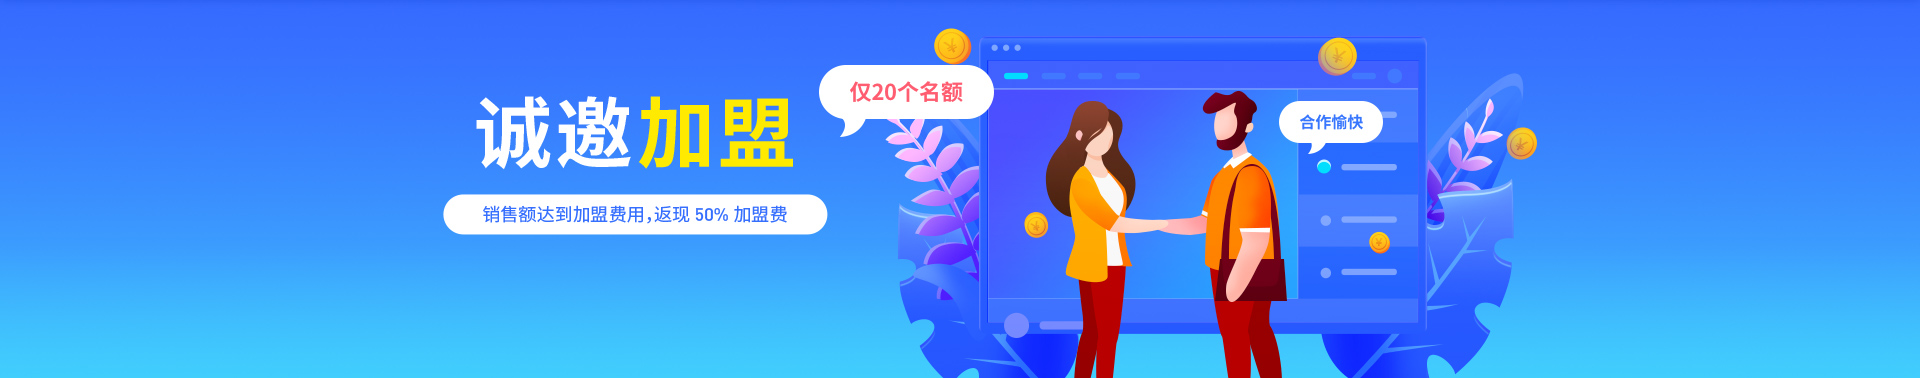
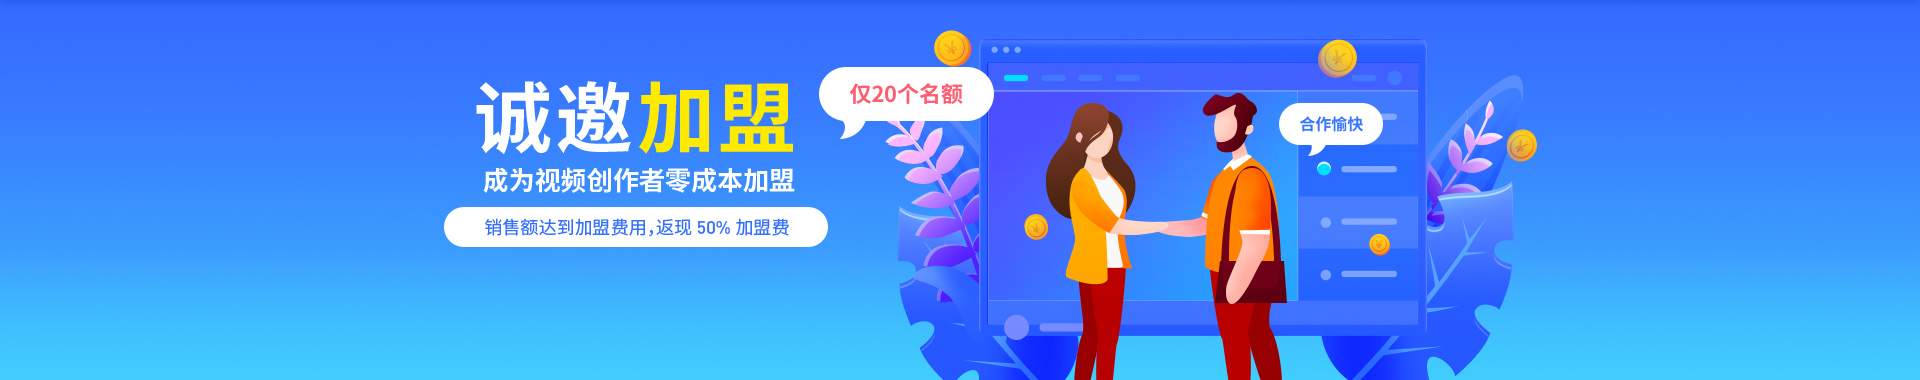
巧匠加盟

diff --git a/qj-jqfl20190522/css/jqfl.css b/qj-jqfl20190522/css/jqfl.css
@@ -1,1 +1,1 @@
-@charset "utf-8";.cl{*zoom:1}.cl:after{display:block;clear:both;height:0;content:"\200B"}.w300{width:300px}.w900{width:900px}.bg-yellow{background:#ffa800 !important}.bg-yellow:hover{background:#ffab0a !important}.yellow{color:#ffa800 !important}a.yellow:hover{color:#ffab0a !important}.bg-green{background:#2ed25d !important}.bg-green:hover{background:#65e386 !important}.pr{position:relative}.icojq{display:inline-block;*display:inline;*zoom:1;vertical-align:middle;background:url(../images/icon-jqfl.png) no-repeat}.jqfl-main{height:380px;background:url(../images/jqfl.jpg) no-repeat center 0}.jqfl-main .slogan{position:absolute;top:68px;left:-70px;width:676px}.jqfl-main .btn-box{padding-top:25px}.jqfl-main .btn-tx{display:block;width:140px;line-height:36px;margin:12px auto 0;font-size:14px;color:#fff;text-align:center;-webkit-border-radius:34px;-ms-border-radius:34px;-moz-border-radius:34px;border-radius:34px}.jqfl-main-box{width:270px;height:263px;margin:43px 56px 0 0;background:#fff}.jqfl-main-box .top-box{position:relative;width:196px;padding-top:56px;margin:0 auto;font-size:0}.jqfl-main-box .top-box .line{position:absolute;top:68px;left:103px;width:1px;height:18px;background:#eee}.jqfl-main-box .top-box dl{display:inline-block;*display:inline;*zoom:1;vertical-align:top;width:98px;text-align:center}.jqfl-main-box .top-box dt{line-height:42px;font-size:12px;color:#999}.jqfl-main-box .top-box dt strong{font-size:40px}.jqfl-main-box .top-box dd{line-height:24px;font-size:12px;color:#999}.jqfl-main2{padding-top:52px;height:328px;text-align:center;background:url(../images/yqcz.jpg) no-repeat center 0}.jqfl-main2 .name{line-height:45px;font-size:28px;color:#333}.jqfl-main2 .info{line-height:30px;font-size:16px;color:#333}.jqfl-main2 .info strong{display:inline-block;*display:inline;*zoom:1;vertical-align:middle;font-size:26px;margin:-3px 12px 0}.jqfl-main2 .info span{margin:0 5px}.jqfl-main2 .price{padding:28px 0 3px;font-size:0;text-align:center;*zoom:1}.jqfl-main2 .price:after{display:block;clear:both;height:0;content:"\200B"}.jqfl-main2 .price:after{display:block;clear:both;height:0;content:"\200B"}.jqfl-main2 .price li{display:inline-block;*display:inline;*zoom:1;width:158px;padding:18px 23px;margin:0 7px;border:1px solid #dfdfdf;cursor:pointer}.jqfl-main2 .price li.cur{padding:16px 21px;border:3px solid #ffab0a}.jqfl-main2 .price li .fl{line-height:22px;font-size:16px;color:#686868}.jqfl-main2 .price li .fl img{display:block;width:60px;height:56px;margin:0 0 5px}.jqfl-main2 .price li .fr{padding:8px 0 0;line-height:20px;font-size:14px;color:#666}.jqfl-main2 .price li .fr div{line-height:28px}.jqfl-main2 .price li .fr div strong{font-size:26px}.jqfl-main2 .btn{display:block;margin:20px auto 0;line-height:40px;text-align:center;width:134px;font-size:16px;color:#fff;background:#ffa800;-webkit-border-radius:4px;-ms-border-radius:4px;-moz-border-radius:4px;border-radius:4px}.jqfl-main2 .btn:hover{background:#ffba00}.jqfl-nav{position:relative;top:-50px;-webkit-box-shadow:0 3px 16px #ebebeb;-ms-box-shadow:0 3px 16px #ebebeb;-moz-box-shadow:0 3px 16px #ebebeb;box-shadow:0 3px 16px #ebebeb;background:#fff}.jqfl-nav li{float:left;margin-left:75px;padding-top:10px;line-height:60px}.jqfl-nav li a{display:block}.jqfl-nav li a:hover{color:#ffa800}.jqfl-nav li.cur a{color:#ffa800}.jqfl-invitation{position:relative;top:-50px;border-top:1px solid #efefef;padding-bottom:30px}.jqfl-invitation:before{content:'';position:absolute;top:0;left:0;width:100%;height:30px;background:#fff}.jqfl-invitation .list{padding-bottom:80px;font-size:0;-webkit-box-shadow:0 3px 20px rgba(235, 235, 235, 0.4);-ms-box-shadow:0 3px 20px rgba(235, 235, 235, 0.4);-moz-box-shadow:0 3px 20px rgba(235, 235, 235, 0.4);box-shadow:0 3px 20px rgba(235, 235, 235, 0.4)}.jqfl-invitation .list ul{padding:55px 0 70px}.jqfl-invitation .list li{display:inline-block;*display:inline;*zoom:1;vertical-align:top;font-size:16px;color:#8a8a8a;line-height:25px;text-align:center}.jqfl-invitation .list li .icojq{display:block;margin:0 auto}.jqfl-invitation .list li p{padding-top:28px}.jqfl-invitation .list li.item1{width:262px}.jqfl-invitation .list li.item1 .icojq{width:55px;height:56px;background-position:-10px -82px}.jqfl-invitation .list li.item2{width:350px}.jqfl-invitation .list li.item2 .icojq{width:54px;height:52px;background-position:-10px -10px}.jqfl-invitation .list li.item3{width:298px}.jqfl-invitation .list li.item3 .icojq{width:66px;height:56px;background-position:-10px -158px}.jqfl-invitation .list li.item4{width:310px}.jqfl-invitation .list li.item4 .icojq{width:59px;height:59px;background-position:-10px -234px}.jqfl-invitation .ct-copy-box{overflow:hidden;font-size:0;text-align:center}.jqfl-invitation .ct-copy-box>div{display:inline-block;*display:inline;*zoom:1;vertical-align:top}.jqfl-invitation .ct-copy-box .txt{display:inline-block;*display:inline;*zoom:1;vertical-align:top;width:495px;padding:0 0 0 25px;margin-right:-1px;line-height:42px;border:1px solid #e2e2e2;font-size:14px;color:#999;-webkit-border-radius:4px 0 0 4px;-ms-border-radius:4px 0 0 4px;-moz-border-radius:4px 0 0 4px;border-radius:4px 0 0 4px;text-align:left}.jqfl-invitation .ct-copy-box .btn{display:inline-block;*display:inline;*zoom:1;vertical-align:top;padding:0 34px;line-height:44px;background:#ffa800;font-size:14px;font-weight:700;-webkit-border-radius:0 4px 4px 0;-ms-border-radius:0 4px 4px 0;-moz-border-radius:0 4px 4px 0;border-radius:0 4px 4px 0;color:#fff}.jqfl-invitation .ct-copy-box .btn:hover{background:#ffab0a}.jqfl-invitation .ct-copy-box .ct-price{position:relative;margin-right:30px}.jqfl-invitation .ct-copy-box .ct-price:before{content:'';position:absolute;top:18px;left:86px;width:1px;height:10px;background:#dcdcdc}.jqfl-invitation .ct-copy-box .ct-price .txt{width:165px;padding-left:15px;color:#535353}.jqfl-invitation .ct-copy-box .ct-price .txt input{display:inline-block;*display:inline;*zoom:1;vertical-align:middle;margin:-1px 0 0 26px;width:22px;height:30px;line-height:30px;text-align:center;font-size:14px;color:#535353;border:none;border-bottom:1px solid #fff;-moz-appearance:textfield}.jqfl-invitation .ct-copy-box .ct-price .txt input::-webkit-outer-spin-button,.jqfl-invitation .ct-copy-box .ct-price .txt input::-webkit-inner-spin-button{-webkit-appearance:none;appearance:none}.jqfl-invitation .ct-copy-box .ct-price .txt input:focus{border-bottom:1px solid #0097f8}.jqfl-czhy{position:relative;top:-50px;border-top:1px solid #efefef;margin-bottom:-20px}.jqfl-czhy:before{content:'';position:absolute;top:0;left:0;width:100%;height:30px;background:#fff}.jqfl-czhy .list{padding-top:40px;font-size:0;-webkit-box-shadow:0 3px 20px rgba(235, 235, 235, 0.4);-ms-box-shadow:0 3px 20px rgba(235, 235, 235, 0.4);-moz-box-shadow:0 3px 20px rgba(235, 235, 235, 0.4);box-shadow:0 3px 20px rgba(235, 235, 235, 0.4)}.jqfl-czhy .list li{border-bottom:1px solid #f8f8f8;padding:26px 0;color:#898989;text-align:center}.jqfl-czhy .list li .name{text-overflow:ellipsis;display:-webkit-box;-webkit-line-clamp:1;-webkit-box-orient:vertical;display:inline-block;*display:inline;*zoom:1;vertical-align:top;width:225px;font-size:14px;overflow:hidden;height:42px;line-height:42px}.jqfl-czhy .list li .name img{display:inline-block;*display:inline;*zoom:1;vertical-align:middle;width:42px;height:42px;margin:0 16px 0 0;-webkit-border-radius:50%;-ms-border-radius:50%;-moz-border-radius:50%;border-radius:50%}.jqfl-czhy .list li .name a{color:#666}.jqfl-czhy .list li .name a:hover{color:#ffa800}.jqfl-czhy .list li .time{display:inline-block;*display:inline;*zoom:1;vertical-align:top;width:436px;font-size:14px;overflow:hidden;height:42px;line-height:42px}.jqfl-czhy .list li .sum{display:inline-block;*display:inline;*zoom:1;vertical-align:top;width:230px;font-size:14px;overflow:hidden;height:42px;line-height:42px}.jqfl-czhy .list li .remainder{display:inline-block;*display:inline;*zoom:1;vertical-align:top;margin-left:97px;width:232px;font-size:14px;overflow:hidden;height:42px;line-height:42px}.jqfl-czhy .list li.dt{padding:10px 0;background:#fafafa;border:0}.jqfl-wallet{margin:0 0 70px;border:1px solid #f4f4f4}.jqfl-wallet .tit{padding:0 24px;line-height:60px;color:#707070;font-size:16px;border-bottom:1px solid #f4f4f4}.jqfl-wallet .ct{padding-bottom:47px}.jqfl-wallet .ct dl{padding:32px 0 0;text-align:center}.jqfl-wallet .ct dt{line-height:80px;font-size:12px;color:#999;margin-bottom:-30px}.jqfl-wallet .ct dt strong{font-size:60px}.jqfl-wallet .ct dd{line-height:22px;font-size:14px;color:#8d8d8d}.jqfl-wallet .btn-box{padding-top:13px}.jqfl-wallet .btn-tx{display:block;width:140px;line-height:36px;margin:0 auto;font-size:14px;color:#fff;text-align:center;-webkit-border-radius:34px;-ms-border-radius:34px;-moz-border-radius:34px;border-radius:34px}.jqfl-wallet .tip{padding:34px 0 0;font-size:13px;line-height:21px;color:#ccc;text-align:center}.jqfl-xjtx{padding-bottom:10px}.jqfl-xjtx .list{border:1px solid #f0f0f0}.jqfl-xjtx .list li{border-top:1px solid #f8f8f8;padding:15px 0;color:#898989;font-size:0;text-align:center}.jqfl-xjtx .list li .item1{display:inline-block;*display:inline;*zoom:1;vertical-align:top;width:228px;font-size:14px;overflow:hidden;height:60px;line-height:60px}.jqfl-xjtx .list li .item2{display:inline-block;*display:inline;*zoom:1;vertical-align:top;width:165px;font-size:14px;overflow:hidden;height:60px;line-height:60px}.jqfl-xjtx .list li .item3{display:inline-block;*display:inline;*zoom:1;vertical-align:top;width:141px;font-size:14px;overflow:hidden;height:60px;line-height:60px}.jqfl-xjtx .list li .item4{display:inline-block;*display:inline;*zoom:1;vertical-align:top;width:202px;font-size:14px;overflow:hidden;height:60px;line-height:60px}.jqfl-xjtx .list li .item5{display:inline-block;*display:inline;*zoom:1;vertical-align:top;width:162px;font-size:14px;overflow:hidden;height:60px;line-height:60px}.jqfl-xjtx .list li.dt{position:relative;top:-1px;left:-1px;width:900px;padding:0;margin-bottom:-2px;background:#f4f4f4;border:0;-webkit-border-radius:4px 4px 0 0;-ms-border-radius:4px 4px 0 0;-moz-border-radius:4px 4px 0 0;border-radius:4px 4px 0 0}.user-ico{display:inline-block;*display:inline;*zoom:1;vertical-align:middle;background:url(http://www.qiaojiang.tv/Public/Static/images/user-ico.png) no-repeat}.user-tip{display:none;position:fixed;top:50%;left:50%;z-index:999;width:160px;height:60px;margin:-30px 0 0 -80px;line-height:60px;background:#fff;font-size:16px;text-align:center;color:#666;-webkit-border-radius:3px;-ms-border-radius:3px;-moz-border-radius:3px;border-radius:3px}.user-tip .user-ico{width:32px;height:32px;margin:-3px 10px 0 0}.user-tip .ico-suc{background-position:0 -130px}.user-tip .ico-fail{background-position:-40px -130px}.page-jqfl{padding:50px 0 60px}.popup-withdrawals{width:440px;height:406px;margin:-203px 0 0 -270px;text-align:left}.popup-withdrawals .money{padding:45px 0 10px 110px}.popup-withdrawals .money dt{line-height:80px;font-size:12px;color:#999;margin-bottom:-30px}.popup-withdrawals .money dt strong{font-size:60px}.popup-withdrawals .money dd{line-height:22px;font-size:14px;color:#8d8d8d}.popup-withdrawals .item{margin:20px 0 0;font-size:0}.popup-withdrawals .item dt{display:inline-block;*display:inline;*zoom:1;vertical-align:top;line-height:40px;width:86px;padding:0 0 0 23px;font-size:14px;color:#666}.popup-withdrawals .item dd{display:inline-block;*display:inline;*zoom:1;vertical-align:top;width:272px}.popup-withdrawals .item dd .text{width:246px;padding:0 12px;line-height:38px;border:1px solid #e6e6e6;color:#666;font-size:14px;-webkit-border-radius:4px;-ms-border-radius:4px;-moz-border-radius:4px;border-radius:4px}.popup-withdrawals .item dd .text:focus{border:1px solid #ffa800}.popup-withdrawals .btn-box{padding:20px 0 0 109px}.popup-withdrawals .btn-box .btn{position:static;width:134px;height:40px;line-height:40px;background:#ffa800;font-size:16px;text-align:center;font-weight:700}.popup-withdrawals .btn-box .btn:hover{background:#ffba00}.popup-withdrawals-suc{overflow:visible;width:440px;height:362px;margin:-181px 0 0 -270px}.popup-withdrawals-suc .text{line-height:56px;font-weight:700;color:#333}.popup-withdrawals-suc .btn-box{padding:25px 0 0}.popup-withdrawals-suc .btn-box .btn{position:static;width:160px;height:44px;line-height:44px;background:#ffa800;font-size:16px;font-weight:700}.popup-withdrawals-suc .btn-box .btn:before{display:none}.popup-withdrawals-suc .btn-box .btn:hover{color:#fff;background:#ffba00;-webkit-transform:rotate(0);-moz-transform:rotate(0);-ms-transform:rotate(0);transform:rotate(0)}.popup-withdrawals-suc .ico-withdrawals{position:absolute;top:-80px;left:130px;width:297px;height:215px;background:url(../images/withdrawals-suc.png) no-repeat center 0}.popup-withdrawals-suc .text{padding-top:165px;font-size:30px}.popup-withdrawals-suc .times{line-height:30px;color:#666;font-size:16px}.banner{width:1220px;height:auto;margin:0 auto;padding:46px 0 21px;background:#fff;overflow:visible;*zoom:1}.banner:after{display:block;clear:both;height:0;content:"\200B"}.banner:after{display:block;clear:both;height:0;content:"\200B"}.banner .list{overflow:visible;padding:0;margin-top:0}.banner .list .item{-webkit-box-shadow:0 22px 32px rgba(118, 118, 118, 0.07);-ms-box-shadow:0 22px 32px rgba(118, 118, 118, 0.07);-moz-box-shadow:0 22px 32px rgba(118, 118, 118, 0.07);box-shadow:0 22px 32px rgba(118, 118, 118, 0.07)}.iconList{padding-bottom:80px}.btn-anim{-webkit-transition:all ease-out 0.3s;-moz-transition:all ease-out 0.3s;-ms-transition:all ease-out 0.3s;transition:all ease-out 0.3s}.btn-anim .qj-youjiantou{filter:alpha(opacity= 0 );opacity:0;display:inline-block;*display:inline;*zoom:1;vertical-align:middle;margin:-2px 0 0 10px;font-size:12px;-webkit-transition:all ease-out 0.3s;-moz-transition:all ease-out 0.3s;-ms-transition:all ease-out 0.3s;transition:all ease-out 0.3s;margin-left:-12px}.btn-anim:hover .qj-youjiantou{display:inline-block;*display:inline;*zoom:1;filter:alpha(opacity= 100 );opacity:1;margin-left:10px}.no-authority{padding:135px 0 140px;background:#fff;text-align:center}.no-authority p{position:relative;z-index:2;line-height:46px;font-size:26px;color:#161616}.no-authority .ecode{margin-top:-20px}.jm-banner{height:378px;background:url(../images/jm.jpg) no-repeat center 0}.jm-hzlc{position:relative;top:-80px;padding:40px 0 0;background:#fff;-webkit-border-radius:12px;-ms-border-radius:12px;-moz-border-radius:12px;border-radius:12px;text-align:center;-webkit-box-shadow:0 0 16px rgba(12, 115, 255, 0.1);-ms-box-shadow:0 0 16px rgba(12, 115, 255, 0.1);-moz-box-shadow:0 0 16px rgba(12, 115, 255, 0.1);box-shadow:0 0 16px rgba(12, 115, 255, 0.1)}.jm-hzlc .ct{position:relative;padding:42px 0 70px}.jm-hzlc .ct .btn{position:absolute;left:50%;bottom:-34px;width:350px;height:62px;line-height:62px;margin-left:-175px;font-size:20px;font-weight:700;color:#fff;background:#0097f8;-webkit-border-radius:62px;-ms-border-radius:62px;-moz-border-radius:62px;border-radius:62px}.jm-hzlc .ct .btn:hover{background:#26a5ff}.jm-tit{line-height:50px;font-size:32px;color:#333;text-align:center}.jm-tit2{color:#fff}.jm-scxq{padding:30px 0 0}.jm-scxq .ct{padding:63px 0 0;font-size:0}.jm-scxq .item{display:inline-block;*display:inline;*zoom:1;vertical-align:top;width:500px;text-align:center}.jm-scxq .item .tit{line-height:30px;font-size:22px;font-weight:700;color:#333;text-align:left}.jm-scxq .item .tit span{margin-right:24px}.jm-scxq .item .img{display:inline-block;*display:inline;*zoom:1;vertical-align:top}.jm-scxq .item p{height:285px;padding:28px 0 0;line-height:32px;font-size:16px;color:#333;text-align:justify}.jm-scxq .item1 .img{margin:0 0 56px}.jm-scxq .item2 .img{margin:8px 0 44px}.jm-scxq .item2,.jm-scxq .item4{margin-left:200px}.jm-scxq .item3{padding:60px 0 0}.jm-scxq .item3 p{height:auto}.jm-scxq .item4{padding:0 0 118px}.jm-ktys{padding:108px 0}.jm-ktys .ct{font-size:0}.jm-ktys .item{display:inline-block;*display:inline;*zoom:1;vertical-align:top;width:590px;height:200px;margin-top:40px;-webkit-border-radius:12px;-ms-border-radius:12px;-moz-border-radius:12px;border-radius:12px}.jm-ktys .item .tit{padding:42px 0 0;line-height:30px;font-size:22px;font-weight:700;color:#fff}.jm-ktys .item .img{display:inline-block;*display:inline;*zoom:1;vertical-align:top;margin:58px 70px 0 90px;width:100px}.jm-ktys .item p{padding:15px 0 0;margin-right:92px;line-height:24px;font-size:16px;color:#fff;text-align:justify}.jm-ktys .item1{background:#ff9d29}.jm-ktys .item2{background:#4acaff}.jm-ktys .item2 .img{margin-top:50px}.jm-ktys .item3{background:#ff5d70}.jm-ktys .item4{background:#8a51ff}.jm-ktys .item2,.jm-ktys .item4{margin-left:40px}.jm-jmdj{padding:0 0 110px}.jm-jmdj .ct{margin-top:40px;padding:0 40px;font-size:0;background:#fff;-webkit-border-radius:8px;-ms-border-radius:8px;-moz-border-radius:8px;border-radius:8px}.jm-jmdj li{padding:28px 0;border-top:1px solid #f2f2f2}.jm-jmdj .item{display:inline-block;*display:inline;*zoom:1;vertical-align:top;width:20%;line-height:24px;font-size:16px;color:#666;text-align:center}.jm-jmdj .item strong{font-size:18px;color:#333}.jm-jmtj{padding:0 0 100px;text-align:center}.jm-jmtj .ct{margin-top:50px;font-size:0}.jm-jmtj .item{display:inline-block;*display:inline;*zoom:1;vertical-align:top;width:290px;line-height:24px;font-size:16px;color:#fff;text-align:center}.jm-jmtj .item2{width:470px;margin:0 85px}.jm-jmtj .item .tit{padding:24px 0 0;line-height:50px;font-weight:700;font-size:22px}.jm-jmtj .item p{line-height:35px}.jm-ecode{padding:0 0 100px;text-align:center}.jm-ecode .ct{margin-top:30px;font-size:0}.jm-ecode p{padding:25px 0 0;line-height:30px;font-size:16px;font-weight:700;color:#fff}.bg-blue{background:#447ef2}
+@charset "utf-8";.cl{*zoom:1}.cl:after{display:block;clear:both;height:0;content:"\200B"}.w300{width:300px}.w900{width:900px}.bg-yellow{background:#ffa800 !important}.bg-yellow:hover{background:#ffab0a !important}.yellow{color:#ffa800 !important}a.yellow:hover{color:#ffab0a !important}.bg-green{background:#2ed25d !important}.bg-green:hover{background:#65e386 !important}.pr{position:relative}.icojq{display:inline-block;*display:inline;*zoom:1;vertical-align:middle;background:url(../images/icon-jqfl.png) no-repeat}.jqfl-main{height:380px;background:url(../images/jqfl.jpg) no-repeat center 0}.jqfl-main .slogan{position:absolute;top:68px;left:-70px;width:676px}.jqfl-main .btn-box{padding-top:25px}.jqfl-main .btn-tx{display:block;width:140px;line-height:36px;margin:12px auto 0;font-size:14px;color:#fff;text-align:center;-webkit-border-radius:34px;-ms-border-radius:34px;-moz-border-radius:34px;border-radius:34px}.jqfl-main-box{width:270px;height:263px;margin:43px 56px 0 0;background:#fff}.jqfl-main-box .top-box{position:relative;width:196px;padding-top:56px;margin:0 auto;font-size:0}.jqfl-main-box .top-box .line{position:absolute;top:68px;left:103px;width:1px;height:18px;background:#eee}.jqfl-main-box .top-box dl{display:inline-block;*display:inline;*zoom:1;vertical-align:top;width:98px;text-align:center}.jqfl-main-box .top-box dt{line-height:42px;font-size:12px;color:#999}.jqfl-main-box .top-box dt strong{font-size:40px}.jqfl-main-box .top-box dd{line-height:24px;font-size:12px;color:#999}.jqfl-main2{padding-top:52px;height:328px;text-align:center;background:url(../images/yqcz.jpg) no-repeat center 0}.jqfl-main2 .name{line-height:45px;font-size:28px;color:#333}.jqfl-main2 .info{line-height:30px;font-size:16px;color:#333}.jqfl-main2 .info strong{display:inline-block;*display:inline;*zoom:1;vertical-align:middle;font-size:26px;margin:-3px 12px 0}.jqfl-main2 .info span{margin:0 5px}.jqfl-main2 .price{padding:28px 0 3px;font-size:0;text-align:center;*zoom:1}.jqfl-main2 .price:after{display:block;clear:both;height:0;content:"\200B"}.jqfl-main2 .price li{display:inline-block;*display:inline;*zoom:1;width:158px;padding:18px 23px;margin:0 7px;border:1px solid #dfdfdf;cursor:pointer}.jqfl-main2 .price li.cur{padding:16px 21px;border:3px solid #ffab0a}.jqfl-main2 .price li .fl{line-height:22px;font-size:16px;color:#686868}.jqfl-main2 .price li .fl img{display:block;width:60px;height:56px;margin:0 0 5px}.jqfl-main2 .price li .fr{padding:8px 0 0;line-height:20px;font-size:14px;color:#666}.jqfl-main2 .price li .fr div{line-height:28px}.jqfl-main2 .price li .fr div strong{font-size:26px}.jqfl-main2 .btn{display:block;margin:20px auto 0;line-height:40px;text-align:center;width:134px;font-size:16px;color:#fff;background:#ffa800;-webkit-border-radius:4px;-ms-border-radius:4px;-moz-border-radius:4px;border-radius:4px}.jqfl-main2 .btn:hover{background:#ffba00}.jqfl-nav{position:relative;top:-50px;-webkit-box-shadow:0 3px 16px #ebebeb;-ms-box-shadow:0 3px 16px #ebebeb;-moz-box-shadow:0 3px 16px #ebebeb;box-shadow:0 3px 16px #ebebeb;background:#fff}.jqfl-nav li{float:left;margin-left:75px;padding-top:10px;line-height:60px}.jqfl-nav li a{display:block}.jqfl-nav li a:hover{color:#ffa800}.jqfl-nav li.cur a{color:#ffa800}.jqfl-invitation{position:relative;top:-50px;border-top:1px solid #efefef;padding-bottom:30px}.jqfl-invitation:before{content:'';position:absolute;top:0;left:0;width:100%;height:30px;background:#fff}.jqfl-invitation .list{padding-bottom:80px;font-size:0;-webkit-box-shadow:0 3px 20px rgba(235, 235, 235, 0.4);-ms-box-shadow:0 3px 20px rgba(235, 235, 235, 0.4);-moz-box-shadow:0 3px 20px rgba(235, 235, 235, 0.4);box-shadow:0 3px 20px rgba(235, 235, 235, 0.4)}.jqfl-invitation .list ul{padding:55px 0 70px}.jqfl-invitation .list li{display:inline-block;*display:inline;*zoom:1;vertical-align:top;font-size:16px;color:#8a8a8a;line-height:25px;text-align:center}.jqfl-invitation .list li .icojq{display:block;margin:0 auto}.jqfl-invitation .list li p{padding-top:28px}.jqfl-invitation .list li.item1{width:262px}.jqfl-invitation .list li.item1 .icojq{width:55px;height:56px;background-position:-10px -82px}.jqfl-invitation .list li.item2{width:350px}.jqfl-invitation .list li.item2 .icojq{width:54px;height:52px;background-position:-10px -10px}.jqfl-invitation .list li.item3{width:298px}.jqfl-invitation .list li.item3 .icojq{width:66px;height:56px;background-position:-10px -158px}.jqfl-invitation .list li.item4{width:310px}.jqfl-invitation .list li.item4 .icojq{width:59px;height:59px;background-position:-10px -234px}.jqfl-invitation .ct-copy-box{overflow:hidden;font-size:0;text-align:center}.jqfl-invitation .ct-copy-box>div{display:inline-block;*display:inline;*zoom:1;vertical-align:top}.jqfl-invitation .ct-copy-box .txt{display:inline-block;*display:inline;*zoom:1;vertical-align:top;width:495px;padding:0 0 0 25px;margin-right:-1px;line-height:42px;border:1px solid #e2e2e2;font-size:14px;color:#999;-webkit-border-radius:4px 0 0 4px;-ms-border-radius:4px 0 0 4px;-moz-border-radius:4px 0 0 4px;border-radius:4px 0 0 4px;text-align:left}.jqfl-invitation .ct-copy-box .btn{display:inline-block;*display:inline;*zoom:1;vertical-align:top;padding:0 34px;line-height:44px;background:#ffa800;font-size:14px;font-weight:700;-webkit-border-radius:0 4px 4px 0;-ms-border-radius:0 4px 4px 0;-moz-border-radius:0 4px 4px 0;border-radius:0 4px 4px 0;color:#fff}.jqfl-invitation .ct-copy-box .btn:hover{background:#ffab0a}.jqfl-invitation .ct-copy-box .ct-price{position:relative;margin-right:30px}.jqfl-invitation .ct-copy-box .ct-price:before{content:'';position:absolute;top:18px;left:86px;width:1px;height:10px;background:#dcdcdc}.jqfl-invitation .ct-copy-box .ct-price .txt{width:165px;padding-left:15px;color:#535353}.jqfl-invitation .ct-copy-box .ct-price .txt input{display:inline-block;*display:inline;*zoom:1;vertical-align:middle;margin:-1px 0 0 26px;width:22px;height:30px;line-height:30px;text-align:center;font-size:14px;color:#535353;border:none;border-bottom:1px solid #fff;-moz-appearance:textfield}.jqfl-invitation .ct-copy-box .ct-price .txt input::-webkit-outer-spin-button,.jqfl-invitation .ct-copy-box .ct-price .txt input::-webkit-inner-spin-button{-webkit-appearance:none;appearance:none}.jqfl-invitation .ct-copy-box .ct-price .txt input:focus{border-bottom:1px solid #0097f8}.jqfl-czhy{position:relative;top:-50px;border-top:1px solid #efefef;margin-bottom:-20px}.jqfl-czhy:before{content:'';position:absolute;top:0;left:0;width:100%;height:30px;background:#fff}.jqfl-czhy .list{padding-top:40px;font-size:0;-webkit-box-shadow:0 3px 20px rgba(235, 235, 235, 0.4);-ms-box-shadow:0 3px 20px rgba(235, 235, 235, 0.4);-moz-box-shadow:0 3px 20px rgba(235, 235, 235, 0.4);box-shadow:0 3px 20px rgba(235, 235, 235, 0.4)}.jqfl-czhy .list li{border-bottom:1px solid #f8f8f8;padding:26px 0;color:#898989;text-align:center}.jqfl-czhy .list li .name{text-overflow:ellipsis;display:-webkit-box;-webkit-line-clamp:1;-webkit-box-orient:vertical;display:inline-block;*display:inline;*zoom:1;vertical-align:top;width:225px;font-size:14px;overflow:hidden;height:42px;line-height:42px}.jqfl-czhy .list li .name img{display:inline-block;*display:inline;*zoom:1;vertical-align:middle;width:42px;height:42px;margin:0 16px 0 0;-webkit-border-radius:50%;-ms-border-radius:50%;-moz-border-radius:50%;border-radius:50%}.jqfl-czhy .list li .name a{color:#666}.jqfl-czhy .list li .name a:hover{color:#ffa800}.jqfl-czhy .list li .time{display:inline-block;*display:inline;*zoom:1;vertical-align:top;width:436px;font-size:14px;overflow:hidden;height:42px;line-height:42px}.jqfl-czhy .list li .sum{display:inline-block;*display:inline;*zoom:1;vertical-align:top;width:230px;font-size:14px;overflow:hidden;height:42px;line-height:42px}.jqfl-czhy .list li .remainder{display:inline-block;*display:inline;*zoom:1;vertical-align:top;margin-left:97px;width:232px;font-size:14px;overflow:hidden;height:42px;line-height:42px}.jqfl-czhy .list li.dt{padding:10px 0;background:#fafafa;border:0}.jqfl-wallet{margin:0 0 70px;border:1px solid #f4f4f4}.jqfl-wallet .tit{padding:0 24px;line-height:60px;color:#707070;font-size:16px;border-bottom:1px solid #f4f4f4}.jqfl-wallet .ct{padding-bottom:47px}.jqfl-wallet .ct dl{padding:32px 0 0;text-align:center}.jqfl-wallet .ct dt{line-height:80px;font-size:12px;color:#999;margin-bottom:-30px}.jqfl-wallet .ct dt strong{font-size:60px}.jqfl-wallet .ct dd{line-height:22px;font-size:14px;color:#8d8d8d}.jqfl-wallet .btn-box{padding-top:13px}.jqfl-wallet .btn-tx{display:block;width:140px;line-height:36px;margin:0 auto;font-size:14px;color:#fff;text-align:center;-webkit-border-radius:34px;-ms-border-radius:34px;-moz-border-radius:34px;border-radius:34px}.jqfl-wallet .tip{padding:34px 0 0;font-size:13px;line-height:21px;color:#ccc;text-align:center}.jqfl-xjtx{padding-bottom:10px}.jqfl-xjtx .list{border:1px solid #f0f0f0}.jqfl-xjtx .list li{border-top:1px solid #f8f8f8;padding:15px 0;color:#898989;font-size:0;text-align:center}.jqfl-xjtx .list li .item1{display:inline-block;*display:inline;*zoom:1;vertical-align:top;width:228px;font-size:14px;overflow:hidden;height:60px;line-height:60px}.jqfl-xjtx .list li .item2{display:inline-block;*display:inline;*zoom:1;vertical-align:top;width:165px;font-size:14px;overflow:hidden;height:60px;line-height:60px}.jqfl-xjtx .list li .item3{display:inline-block;*display:inline;*zoom:1;vertical-align:top;width:141px;font-size:14px;overflow:hidden;height:60px;line-height:60px}.jqfl-xjtx .list li .item4{display:inline-block;*display:inline;*zoom:1;vertical-align:top;width:202px;font-size:14px;overflow:hidden;height:60px;line-height:60px}.jqfl-xjtx .list li .item5{display:inline-block;*display:inline;*zoom:1;vertical-align:top;width:162px;font-size:14px;overflow:hidden;height:60px;line-height:60px}.jqfl-xjtx .list li.dt{position:relative;top:-1px;left:-1px;width:900px;padding:0;margin-bottom:-2px;background:#f4f4f4;border:0;-webkit-border-radius:4px 4px 0 0;-ms-border-radius:4px 4px 0 0;-moz-border-radius:4px 4px 0 0;border-radius:4px 4px 0 0}.user-ico{display:inline-block;*display:inline;*zoom:1;vertical-align:middle;background:url(http://www.qiaojiang.tv/Public/Static/images/user-ico.png) no-repeat}.user-tip{display:none;position:fixed;top:50%;left:50%;z-index:999;width:160px;height:60px;margin:-30px 0 0 -80px;line-height:60px;background:#fff;font-size:16px;text-align:center;color:#666;-webkit-border-radius:3px;-ms-border-radius:3px;-moz-border-radius:3px;border-radius:3px}.user-tip .user-ico{width:32px;height:32px;margin:-3px 10px 0 0}.user-tip .ico-suc{background-position:0 -130px}.user-tip .ico-fail{background-position:-40px -130px}.page-jqfl{padding:50px 0 60px}.popup-withdrawals{width:440px;height:406px;margin:-203px 0 0 -270px;text-align:left}.popup-withdrawals .money{padding:45px 0 10px 110px}.popup-withdrawals .money dt{line-height:80px;font-size:12px;color:#999;margin-bottom:-30px}.popup-withdrawals .money dt strong{font-size:60px}.popup-withdrawals .money dd{line-height:22px;font-size:14px;color:#8d8d8d}.popup-withdrawals .item{margin:20px 0 0;font-size:0}.popup-withdrawals .item dt{display:inline-block;*display:inline;*zoom:1;vertical-align:top;line-height:40px;width:86px;padding:0 0 0 23px;font-size:14px;color:#666}.popup-withdrawals .item dd{display:inline-block;*display:inline;*zoom:1;vertical-align:top;width:272px}.popup-withdrawals .item dd .text{width:246px;padding:0 12px;line-height:38px;border:1px solid #e6e6e6;color:#666;font-size:14px;-webkit-border-radius:4px;-ms-border-radius:4px;-moz-border-radius:4px;border-radius:4px}.popup-withdrawals .item dd .text:focus{border:1px solid #ffa800}.popup-withdrawals .btn-box{padding:20px 0 0 109px}.popup-withdrawals .btn-box .btn{position:static;width:134px;height:40px;line-height:40px;background:#ffa800;font-size:16px;text-align:center;font-weight:700}.popup-withdrawals .btn-box .btn:hover{background:#ffba00}.popup-withdrawals-suc{overflow:visible;width:440px;height:362px;margin:-181px 0 0 -270px}.popup-withdrawals-suc .text{line-height:56px;font-weight:700;color:#333}.popup-withdrawals-suc .btn-box{padding:25px 0 0}.popup-withdrawals-suc .btn-box .btn{position:static;width:160px;height:44px;line-height:44px;background:#ffa800;font-size:16px;font-weight:700}.popup-withdrawals-suc .btn-box .btn:before{display:none}.popup-withdrawals-suc .btn-box .btn:hover{color:#fff;background:#ffba00;-webkit-transform:rotate(0);-moz-transform:rotate(0);-ms-transform:rotate(0);transform:rotate(0)}.popup-withdrawals-suc .ico-withdrawals{position:absolute;top:-80px;left:130px;width:297px;height:215px;background:url(../images/withdrawals-suc.png) no-repeat center 0}.popup-withdrawals-suc .text{padding-top:165px;font-size:30px}.popup-withdrawals-suc .times{line-height:30px;color:#666;font-size:16px}.banner{width:1220px;height:auto;margin:0 auto;padding:46px 0 21px;background:#fff;overflow:visible;*zoom:1}.banner:after{display:block;clear:both;height:0;content:"\200B"}.banner .list{overflow:visible;padding:0;margin-top:0}.banner .list .item{-webkit-box-shadow:0 22px 32px rgba(118, 118, 118, 0.07);-ms-box-shadow:0 22px 32px rgba(118, 118, 118, 0.07);-moz-box-shadow:0 22px 32px rgba(118, 118, 118, 0.07);box-shadow:0 22px 32px rgba(118, 118, 118, 0.07)}.iconList{padding-bottom:80px}.btn-anim{-webkit-transition:all ease-out 0.3s;-moz-transition:all ease-out 0.3s;-ms-transition:all ease-out 0.3s;transition:all ease-out 0.3s}.btn-anim .qj-youjiantou{filter:alpha(opacity= 0 );opacity:0;display:inline-block;*display:inline;*zoom:1;vertical-align:middle;margin:-2px 0 0 10px;font-size:12px;-webkit-transition:all ease-out 0.3s;-moz-transition:all ease-out 0.3s;-ms-transition:all ease-out 0.3s;transition:all ease-out 0.3s;margin-left:-12px}.btn-anim:hover .qj-youjiantou{display:inline-block;*display:inline;*zoom:1;filter:alpha(opacity= 100 );opacity:1;margin-left:10px}.no-authority{padding:135px 0 140px;background:#fff;text-align:center}.no-authority p{position:relative;z-index:2;line-height:46px;font-size:26px;color:#161616}.no-authority .ecode{margin-top:-20px}.jm-banner{height:380px;background:url(../images/jm.jpg) no-repeat center 0}.jm-hzlc{position:relative;top:-80px;padding:40px 0 0;background:#fff;-webkit-border-radius:12px;-ms-border-radius:12px;-moz-border-radius:12px;border-radius:12px;text-align:center;-webkit-box-shadow:0 0 16px rgba(12, 115, 255, 0.1);-ms-box-shadow:0 0 16px rgba(12, 115, 255, 0.1);-moz-box-shadow:0 0 16px rgba(12, 115, 255, 0.1);box-shadow:0 0 16px rgba(12, 115, 255, 0.1)}.jm-hzlc .ct{position:relative;padding:42px 0 70px}.jm-hzlc .ct .btn{position:absolute;left:50%;bottom:-34px;width:350px;height:62px;line-height:62px;margin-left:-175px;font-size:20px;font-weight:700;color:#fff;background:#0097f8;-webkit-border-radius:62px;-ms-border-radius:62px;-moz-border-radius:62px;border-radius:62px}.jm-hzlc .ct .btn:hover{background:#26a5ff}.jm-tit{line-height:50px;font-size:32px;color:#333;text-align:center}.jm-tit2{color:#fff}.jm-scxq{padding:30px 0 0}.jm-scxq .ct{padding:63px 0 0;font-size:0}.jm-scxq .item{display:inline-block;*display:inline;*zoom:1;vertical-align:top;width:500px;text-align:center}.jm-scxq .item .tit{line-height:30px;font-size:22px;font-weight:700;color:#333;text-align:left}.jm-scxq .item .tit span{margin-right:24px}.jm-scxq .item .img{display:inline-block;*display:inline;*zoom:1;vertical-align:top}.jm-scxq .item p{height:285px;padding:28px 0 0;line-height:32px;font-size:16px;color:#333;text-align:justify}.jm-scxq .item1 .img{margin:0 0 56px}.jm-scxq .item2 .img{margin:8px 0 44px}.jm-scxq .item2,.jm-scxq .item4{margin-left:200px}.jm-scxq .item3{padding:60px 0 0}.jm-scxq .item3 p{height:auto}.jm-scxq .item4{padding:0 0 118px}.jm-ktys{padding:108px 0}.jm-ktys .ct{font-size:0}.jm-ktys .item{display:inline-block;*display:inline;*zoom:1;vertical-align:top;width:590px;height:200px;margin-top:40px;-webkit-border-radius:12px;-ms-border-radius:12px;-moz-border-radius:12px;border-radius:12px}.jm-ktys .item .tit{padding:42px 0 0;line-height:30px;font-size:22px;font-weight:700;color:#fff}.jm-ktys .item .img{display:inline-block;*display:inline;*zoom:1;vertical-align:top;margin:58px 70px 0 90px;width:100px}.jm-ktys .item p{padding:15px 0 0;margin-right:92px;line-height:24px;font-size:16px;color:#fff;text-align:justify}.jm-ktys .item1{background:#ff9d29}.jm-ktys .item2{background:#4acaff}.jm-ktys .item2 .img{margin-top:50px}.jm-ktys .item3{background:#ff5d70}.jm-ktys .item4{background:#8a51ff}.jm-ktys .item2,.jm-ktys .item4{margin-left:40px}.jm-jmdj{padding:0 0 110px}.jm-jmdj .ct{overflow:hidden;margin-top:40px;font-size:0;background:#fff;-webkit-border-radius:8px;-ms-border-radius:8px;-moz-border-radius:8px;border-radius:8px}.jm-jmdj li.last .item-last{height:72px}.jm-jmdj .item{display:inline-block;*display:inline;*zoom:1;vertical-align:top;width:16.6%;line-height:24px;font-size:14px;color:#666;text-align:center;padding:28px 0;border-top:1px solid #f2f2f2}.jm-jmdj .item strong{font-size:18px;color:#333}.jm-jmdj .item-last{width:17%;color:#fff;background:#ff9d29;border-color:#ffc360}.jm-jmdj .item-last strong{color:#fff}.jm-jmtj{padding:0 0 100px;text-align:center}.jm-jmtj .ct{margin-top:50px;font-size:0}.jm-jmtj .item{display:inline-block;*display:inline;*zoom:1;vertical-align:top;width:300px;line-height:24px;font-size:16px;color:#fff;text-align:center}.jm-jmtj .item2{position:relative;width:470px;margin:0 75px}.jm-jmtj .item2:before,.jm-jmtj .item2:after{content:'';position:absolute;top:90px;left:0;width:1px;height:80px;background:#8fb2f7}.jm-jmtj .item2:after{left:auto;right:0}.jm-jmtj .item .tit{padding:24px 0 0;line-height:50px;font-weight:700;font-size:22px}.jm-jmtj .item p{line-height:35px}.jm-ecode{padding:0 0 100px;text-align:center}.jm-ecode .ct{margin-top:30px;font-size:0}.jm-ecode p{padding:25px 0 0;line-height:30px;font-size:16px;font-weight:700;color:#fff}.jm-wtjd{padding:0 0 70px}.jm-wtjd .ct{margin-right:-130px;font-size:0}.jm-wtjd .item{display:inline-block;*display:inline;*zoom:1;vertical-align:top;line-height:28px;color:#fff;font-size:16px;width:550px;margin:46px 125px 0 0;text-align:justify}.jm-wtjd .item dt{font-weight:700}.jm-wtjd .item dd{padding:14px 0 0}.bg-blue{background:#447ef2}

diff --git a/qj-jqfl20190522/加盟.html b/qj-jqfl20190522/加盟.html
@@ -218,6 +218,7 @@
 				                <div class="item"><strong>中级加盟商</strong></div>
 				                <div class="item"><strong>高级加盟商</strong></div>
 				                <div class="item"><strong>合作加盟商</strong></div>
+				                <div class="item item-last"><strong>视频创作者</strong></div>
 				            </li>
 				            <li>
 				                <div class="item">加盟费用</div>
@@ -225,13 +226,15 @@
 				                <div class="item">10W</div>
 				                <div class="item">15W</div>
 				                <div class="item">60W</div>
+				                <div class="item item-last">0元</div>
 				            </li>
-				            <li>
+				            <li class="last">
 				                <div class="item">加盟收益</div>
-				                <div class="item">销售额30%提成</div>
-				                <div class="item">销售额35%提成</div>
-				                <div class="item">销售额40%提成</div>
+				                <div class="item">销售额30%提成<br>加盟费50%返现</div>
+				                <div class="item">销售额35%提成<br>加盟费50%返现</div>
+				                <div class="item">销售额40%提成<br>加盟费50%返现</div>
 				                <div class="item">销售额60%提成<br>可招普通、中级、高级代理<br>（加盟费用50%归合作商所有）</div>
+				                <div class="item item-last">销售额30%提成<br>视频创作费</div>
 				            </li>
 				        </ul>
 				    </div>
@@ -252,7 +255,7 @@
 						<div class="item">
 							<img src="./images/jmtj-img3.png" alt="" class="img">
 							<div class="tit">合作费用</div>
-							<p>根据您的加盟评估 最低加盟费5W元</p>
+							<p>视频创作者零成本加盟，普通加盟商5W起</p>
 						</div>
 				    </div>
 				</div>
@@ -261,6 +264,31 @@
 				    <div class="ct">
 						<img src="./images/wxzx-ecode.png" alt="" class="img">
 						<p>仅限20个名额，先到先得。</p>
+				    </div>
+				</div>
+				<div class="jm-wtjd">
+				    <div class="jm-tit jm-tit2">常见问题解答</div>
+				    <div class="ct">
+				        <dl class="item">
+				            <dt>1、销售额提成是怎么计算的？</dt>
+				            <dd>例如：你是普通加盟商，你本月销售额为10W，按照销售额30%提成，你将获得3W的收益，不同的加盟商提成比例不同。</dd>
+				        </dl>
+				        <dl class="item">
+				            <dt>2、高额返利，有多高？</dt>
+				            <dd>老板说我们要拿出诚意，加盟商除了其销售额对应的提成外，当其销售额达到加盟费用时，将返还一半的加盟费用，例如你是普通加盟商，盟费用是5W元，当你的销售额达到5W元时即可返还2.5W元。</dd>
+				        </dl>
+				        <dl class="item">
+				            <dt>3、视频创作者和其他加盟商有什么区别？</dt>
+				            <dd>秉承开放共赢的原则，巧匠课堂希望更多优秀的创作者加入我们的团队，视频创作者无需任何加盟费用，即可获得加盟资格，你将获得销售额30%提成，除此之外每个原创视频我们会根据视频内容质量支付相应的费用，我们提供平台，让你的内容更好的变现！</dd>
+				        </dl>
+				        <dl class="item">
+				            <dt>4、合作加盟商和其他加盟商有什么不同？</dt>
+				            <dd>合作加盟商除了可以获得销售额60%的高额提成外，还可以招收“普通加盟商”“中级加盟商”“高级加盟商”，并且招收的加盟商的加盟费用50%归合作加盟商所有，例如：合作加盟商招收了一名普通加盟商，普通加盟商的加盟费用为5W,合作加盟商即可获得2.5W的提成。</dd>
+				        </dl>
+				        <dl class="item">
+				            <dt>5、加盟商如何提现？</dt>
+				            <dd>加盟后我们会给您开通加盟商后台，可以在后台随时提现！</dd>
+				        </dl>
 				    </div>
 				</div>
 			</div>

diff --git a/qj-jqfl20190522/less/jqfl.less b/qj-jqfl20190522/less/jqfl.less
@@ -782,7 +782,7 @@ a.yellow {
 
 .jm {
 	&-banner {
-		height: 378px;
+		height: 380px;
 		background: url(../images/jm.jpg) no-repeat center 0;
 	}
 	&-hzlc {
@@ -937,27 +937,41 @@ a.yellow {
 	&-jmdj {
 		padding: 0 0 110px;
 		.ct {
+			.ov(h);
 			margin-top: 40px;
-			padding: 0 40px;
 			font-size: 0;
 			background: #fff;
 			.bdr(8px);
 		}
 		li {
-			padding: 28px 0;
-			border-top: 1px solid #f2f2f2;
+			&.last {
+				.item-last {
+					height: 24px * 3;
+				}
+			}
 		}
 		.item {
 			.dis(ib);
 			vertical-align: top;
-			width: 20%;
+			width: 16.6%;
 			line-height: 24px;
-			font-size: 16px;
+			font-size: 14px;
 			color: #666;
 			text-align: center;
+			padding: 28px 0;
+			border-top: 1px solid #f2f2f2;
 			strong {
 				font-size: 18px;
 				color: #333;
+			}
+			&-last {
+				width: 17%;
+				color: #fff;
+				background: #ff9d29;
+				border-color: #ffc360;
+				strong {
+					color: #fff;
+				}
 			}
 		}
 	}
@@ -971,14 +985,28 @@ a.yellow {
 		.item {
 			.dis(ib);
 			vertical-align: top;
-			width: 290px;
+			width: 300px;
 			line-height: 24px;
 			font-size: 16px;
 			color: #fff;
 			text-align: center;
 			&2 {
+				.pos(r);
 				width: 470px;
-				margin: 0 85px;
+				margin: 0 75px;
+				&:before, &:after {
+					content: '';
+					.pos(a);
+					top: 90px;
+					left: 0;
+					width: 1px;
+					height: 80px;
+					background: #8fb2f7;
+				}
+				&:after {
+					left: auto;
+					right: 0;
+				}
 			}
 			.tit {
 				padding: 24px 0 0;
@@ -1004,6 +1032,29 @@ a.yellow {
 			font-size: 16px;
 			font-weight: 700;
 			color: #fff;
+		}
+	}
+	&-wtjd {
+		padding: 0 0 70px;
+		.ct {
+			margin-right: -130px;
+			font-size: 0;
+		}
+		.item {
+			.dis(ib);
+			vertical-align: top;
+			line-height: 28px;
+			color: #fff;
+			font-size: 16px;
+			width: 550px;
+			margin: 46px 125px 0 0;
+			text-align: justify;
+			dt {
+				font-weight: 700;
+			}
+			dd {
+				padding: 14px 0 0;
+			}
 		}
 	}
 }
